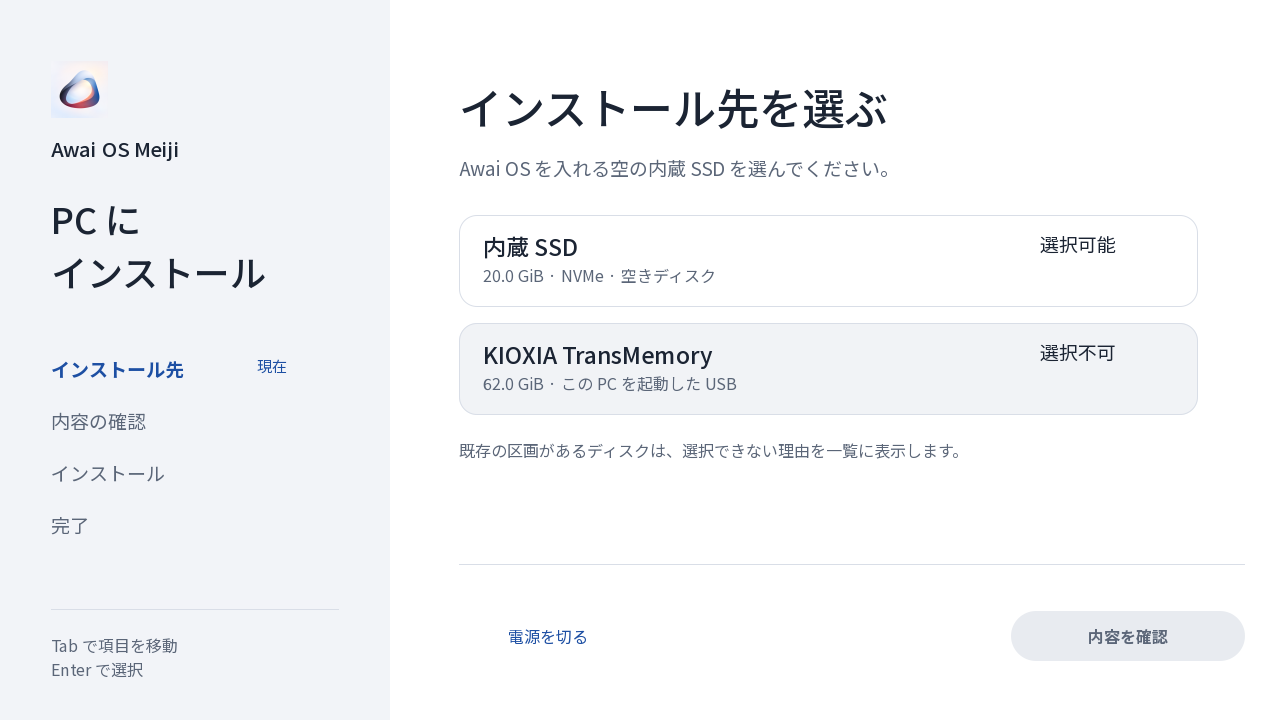
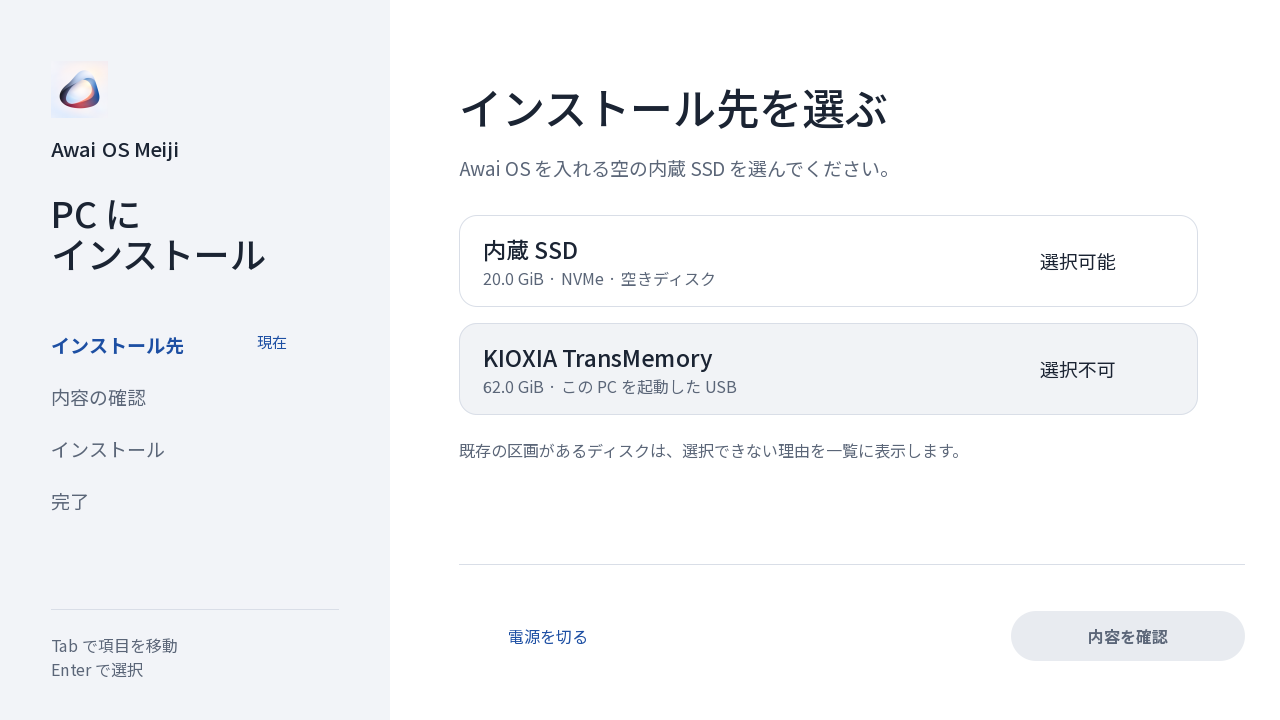
installer: centre the status tag, design line pitch for the product title, ensure toplevel focus so the first Tab always counts

diff --git a/android/desktop/pc-ab-device/installer/gui.py b/android/desktop/pc-ab-device/installer/gui.py
@@ -27,6 +27,26 @@ def use_bundled_fonts(work):
     os.environ.setdefault("PANGOCAIRO_BACKEND", "fc")
 
 
+def ensure_toplevel_focus(win):
+    """Without a window manager nobody tells GTK that its window has the keyboard focus, and GTK then ignores Tab traversal.
+    Tell it: give the X window the input focus and mark the GTK toplevel as focused (idempotent)."""
+    import gi
+    gi.require_version("Gdk", "3.0")
+    from gi.repository import Gdk
+    gw = win.get_window()
+    if gw is not None and type(win).__name__ != "OffscreenWindow":  # an offscreen window has no X window to focus
+        try:
+            gw.focus(Gdk.CURRENT_TIME)
+        except Exception:
+            pass
+    if not win.has_toplevel_focus() and gw is not None:
+        ev = Gdk.Event.new(Gdk.EventType.FOCUS_CHANGE)
+        ev.window = gw
+        ev.focus_change.window = gw
+        ev.focus_change._in = 1
+        win.emit("focus-in-event", ev)
+
+
 def css_for(u):
     """Gtk CSS for one design unit u (pixels). Same colours and sizes as the approved design."""
     p = lambda n: f"{max(1, round(n * u))}px"
@@ -163,6 +183,7 @@ class InstallerUI:
         rel.set_margin_top(round(9 * u))
         self.rail.pack_start(rel, False, False, 0)
         prod = self.label(T["product"], "product")
+        self.line_height(prod, round(25 * u * 1024))  # the design's line pitch: 25 units for the 22-unit font
         prod.set_margin_top(round(18 * u))
         self.rail.pack_start(prod, False, False, 0)
         self.steps_box.set_margin_top(round(34 * u))
@@ -175,6 +196,15 @@ class InstallerUI:
         rule.set_size_request(-1, 1)
         self.rail.pack_end(hint, False, False, 0)
         self.rail.pack_end(rule, False, False, 0)
+
+    def line_height(self, label, pango_units):
+        """Pango >= 1.50 absolute line height (pixels * 1024); older Pango keeps its default spacing."""
+        try:
+            attrs = self.Pango.AttrList()
+            attrs.insert(self.Pango.attr_line_height_new_absolute(pango_units))
+            label.set_attributes(attrs)
+        except Exception:
+            pass
 
     def clear(self, box):
         for child in box.get_children():
@@ -254,6 +284,9 @@ class InstallerUI:
         inner.pack_start(text, True, True, 0)
         tag = self.label(extra or c["tag"], "card-tag")
         tag.set_size_request(round(96 * u), -1)
+        tag.set_yalign(0.5)
+        tag.set_valign(Gtk.Align.CENTER)
+        text.set_valign(Gtk.Align.CENTER)
         inner.pack_end(tag, False, False, 0)
         if c["eligible"] and not extra:
             w = Gtk.Button()
@@ -482,17 +515,20 @@ def main(argv=None):
     win.add(ui.root)
 
     def on_key(_w, event):
-        return keys.swallow(Gdk.keyval_name(event.keyval), int(event.state))
+        if keys.swallow(Gdk.keyval_name(event.keyval), int(event.state)):
+            return True
+        ensure_toplevel_focus(win)  # focus can be lost to key mashing or a lost X focus; the first Tab must still count
+        return False
     win.connect("key-press-event", on_key)
     win.connect("key-release-event", lambda _w, e: keys.swallow(Gdk.keyval_name(e.keyval), int(e.state)))
     win.connect("destroy", lambda _w: Gtk.main_quit())
+    win.connect("focus-out-event", lambda _w, _e: GLib.idle_add(ensure_toplevel_focus, win) and False)
     ui.render(force=True)
     win.show_all()
     win.fullscreen()
     ui.render(force=True)
     win.present()
-    if win.get_window():
-        win.get_window().focus(Gdk.CURRENT_TIME)
+    ensure_toplevel_focus(win)
     GLib.timeout_add(700, ui.poll)
     Gtk.main()
     return 0

diff --git a/android/desktop/pc-ab-device/installer/tests/test_gui.py b/android/desktop/pc-ab-device/installer/tests/test_gui.py
@@ -76,6 +76,40 @@ class Widgets(unittest.TestCase):
         d.key("Tab")
         self.assertEqual(d.focus_text(), "戻る")
 
+    def test_first_tab_lands_on_the_first_selectable_card_even_after_focus_was_lost(self):
+        import gi
+        gi.require_version("Gdk", "3.0")
+        from gi.repository import Gdk
+        d = self.d
+        ev = Gdk.Event.new(Gdk.EventType.FOCUS_CHANGE)  # key mashing / a lost X focus: GTK is told the toplevel lost focus
+        ev.window = d.win.get_window()
+        ev.focus_change.window = d.win.get_window()
+        ev.focus_change._in = 0
+        d.win.emit("focus-out-event", ev)
+        self.assertFalse(d.win.has_toplevel_focus())
+        d.win.set_focus(None)
+        import gui
+        gui.ensure_toplevel_focus(d.win)  # what the window's key handler does before the key reaches the widgets
+        self.assertTrue(d.win.has_toplevel_focus())
+        d.key("Tab")
+        self.assertIn("内蔵 SSD", d.focus_text())
+        self.assertIn("選択可能", d.focus_text(), "one Tab reaches the first selectable card, not the unselectable USB")
+
+    def test_card_tags_are_centred_and_the_product_title_uses_the_design_pitch(self):
+        d = self.d
+        tags = [l for l in d.labels() if l.get_text() in ("選択可能", "選択不可")]
+        self.assertTrue(tags)
+        for tag in tags:
+            card = tag.get_ancestor(d.Gtk.Button) or tag.get_parent().get_parent()
+            _x, off_y = tag.get_layout_offsets()  # where the text really is, not the label's allocation
+            mid_tag = off_y + tag.get_layout().get_pixel_size()[1] / 2  # window coordinates
+            mid_card = card.translate_coordinates(d.win, 0, card.get_allocated_height() / 2)[1]
+            self.assertAlmostEqual(mid_tag, mid_card, delta=3, msg=tag.get_text())
+        prod = [l for l in d.labels() if l.get_text().startswith("PC に")][0]
+        lines = prod.get_layout().get_pixel_size()[1]
+        size = prod.get_pango_context().get_font_description().get_size() / 1024 * 96 / 72
+        self.assertLessEqual(lines / (2 * size), 1.25, "two lines of the product title must not be wider than the design's pitch")
+
     def test_power_off_asks_once(self):
         d = self.d
         d.key("Tab")

diff --git a/android/desktop/pc-ab-device/installer/tests/mutations.py b/android/desktop/pc-ab-device/installer/tests/mutations.py
@@ -79,6 +79,9 @@ M = [
     ("gui: only the bundled face", "installer/gui.py", [('* {{ font-family: "Noto Sans JP"; color: #1b2433; }}', '* {{ font-family: "Noto Sans JP", sans-serif; color: #1b2433; }}', 1)], [W]),
     ("gui: power question survives the poll redraw", "installer/gui.py", [('if k not in ("state", "armed")}', 'if k != "state"}', 1)], [G]),
     ("gui: rebuild is not a blur", "installer/gui.py", [('        if getattr(self, "rebuilding", False):\n            return\n', "", 1)], [G]),
+    ("gui: card tag centred", "installer/gui.py", [("        tag.set_valign(Gtk.Align.CENTER)\n", "", 1), ("        tag.set_yalign(0.5)\n", "        tag.set_yalign(0.0)\n", 1)], [G]),
+    ("gui: product title line pitch", "installer/gui.py", [("        self.line_height(prod, round(25 * u * 1024))", "        pass", 1)], [G]),
+    ("gui: toplevel focus ensured", "installer/gui.py", [("    if not win.has_toplevel_focus() and gw is not None:", "    if False:", 1)], [G]),
     ("gui: rail proportion", "installer/gui.py", [("self.rail.set_size_request(round(0.305 * width), -1)", "self.rail.set_size_request(round(0.2 * width), -1)", 1)], [G]),
     ("gui: bundled fonts registered", "installer/gui.py", [("    os.environ[\"FONTCONFIG_FILE\"] = conf\n", "", 1)], [W]),
     ("start: GTK probe before X", "installer/start.sh", [("    || text \"screen installer unavailable (Python GTK 3 bindings not available); using the text installer.\"", "    || true", 1)], [W]),

diff --git a/android/desktop/pc-ab-device/installer/tests/gtkdrive.py b/android/desktop/pc-ab-device/installer/tests/gtkdrive.py
@@ -45,15 +45,7 @@ class Drive:
         self.ui.render(force=True)
         self.win.show_all()
         self.spin()
-        # an offscreen window never gets focus from a display: give it toplevel focus so Tab traversal behaves as on screen
-        import gi
-        gi.require_version("Gdk", "3.0")
-        from gi.repository import Gdk
-        ev = Gdk.Event.new(Gdk.EventType.FOCUS_CHANGE)
-        ev.window = self.win.get_window()
-        ev.focus_change.window = self.win.get_window()
-        ev.focus_change._in = 1
-        self.win.emit("focus-in-event", ev)
+        gui.ensure_toplevel_focus(self.win)  # the same helper the real window uses
         self.win.set_focus(None)
 
     def spin(self, n=25, settle=0.12):

diff --git a/android/desktop/pc-ab-device/README.md b/android/desktop/pc-ab-device/README.md
@@ -239,8 +239,8 @@ python3 android/desktop/pc-ab-device/installer/tests/shots.py OUTDIR            
 No root, no real disk: fake `lsblk`/`blockdev`/`wipefs`/`findmnt`/`sgdisk`/`zstd`/`sync`/`systemctl` on `PATH` and sparse temp files;
 the production `Host` is replaced only in tests. The GTK tests drive the real widget tree in a `Gtk.OffscreenWindow` (nothing is shown
 on a display; Tab/Enter/typing are simulated at widget level) and skip themselves where PyGObject/Gtk 3 is missing (CI runs
-117 of 128 tests there; the 11 GTK tests ran locally in a conda env with Gtk 3.24). Bazel: `:screen_installer_*_test`. Mutation list:
-`installer/tests/mutation-results.txt` (74 of 75 guards killed; the one survivor is equivalent offscreen and covered by the VM run).
+117 of 130 tests there; the 13 GTK tests ran locally in a conda env with Gtk 3.24). Bazel: `:screen_installer_*_test`. Mutation list:
+`installer/tests/mutation-results.txt` (77 of 78 guards killed; the one survivor is equivalent offscreen and covered by the VM run).
 Screenshots from the widget tree and the design side by side: `installer/screenshots/` (`fonts-used.txt` proves every label is drawn
 by the bundled face, `keyboard-walkthrough.txt` is the Tab/Enter sequence).
 
